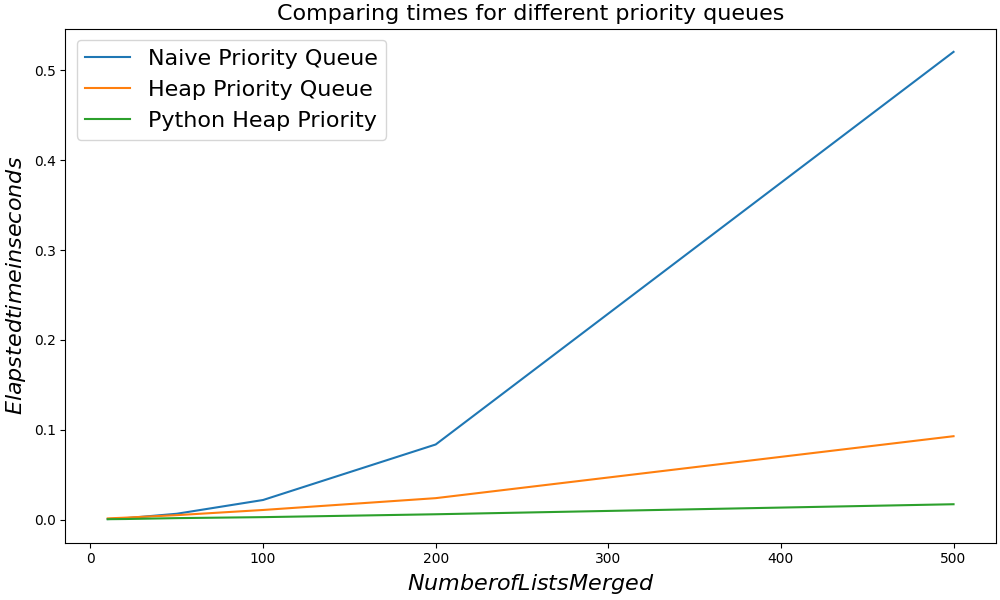
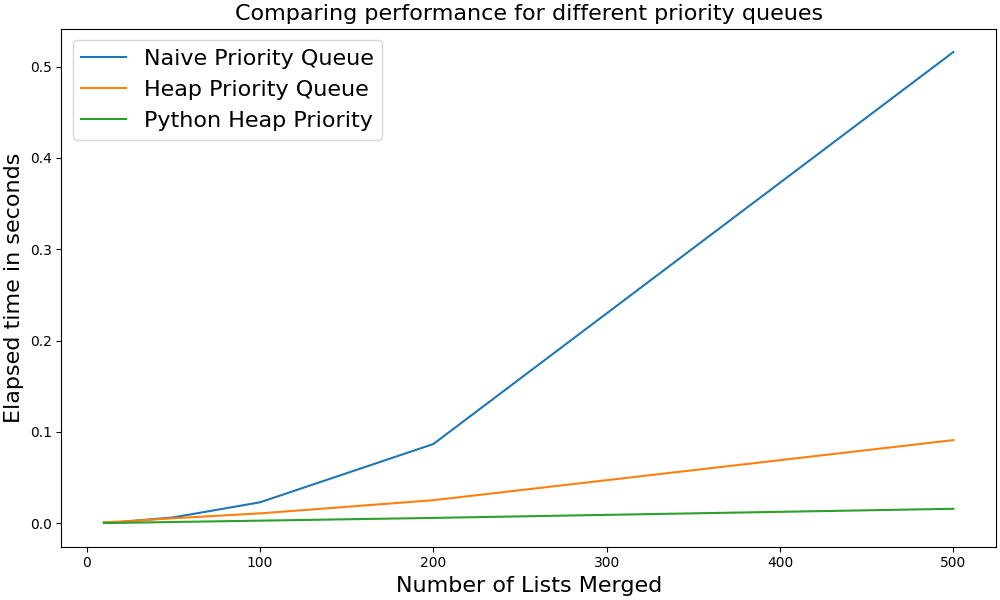
Cleaned up graphs for P3

diff --git a/homework/HW6/HW6-final/P3-C.py b/homework/HW6/HW6-final/P3-C.py
@@ -10,9 +10,9 @@ python_priority = timeit(ns=(10, 20, 50, 100, 200, 500), pqclass = PythonHeapPri
 x_axis = [10, 20, 50, 100, 200, 500]
 
 fig, ax = plt.subplots(1, 1, figsize=(10, 6), constrained_layout = True)
-ax.set_xlabel(r'$Number of Lists Merged$', fontsize = 16)
-ax.set_ylabel(r'$Elapsted time in seconds$', fontsize = 16)
-ax.set_title(r'Comparing times for different priority queues', fontsize = 16)
+ax.set_xlabel(r'Number of Lists Merged', fontsize = 16)
+ax.set_ylabel(r'Elapsed time in seconds', fontsize = 16)
+ax.set_title(r'Comparing performance for different priority queues', fontsize = 16)
 
 ax.plot(x_axis, naive_priority, label = r'Naive Priority Queue')
 ax.plot(x_axis, heap_priority, label = r'Heap Priority Queue')
